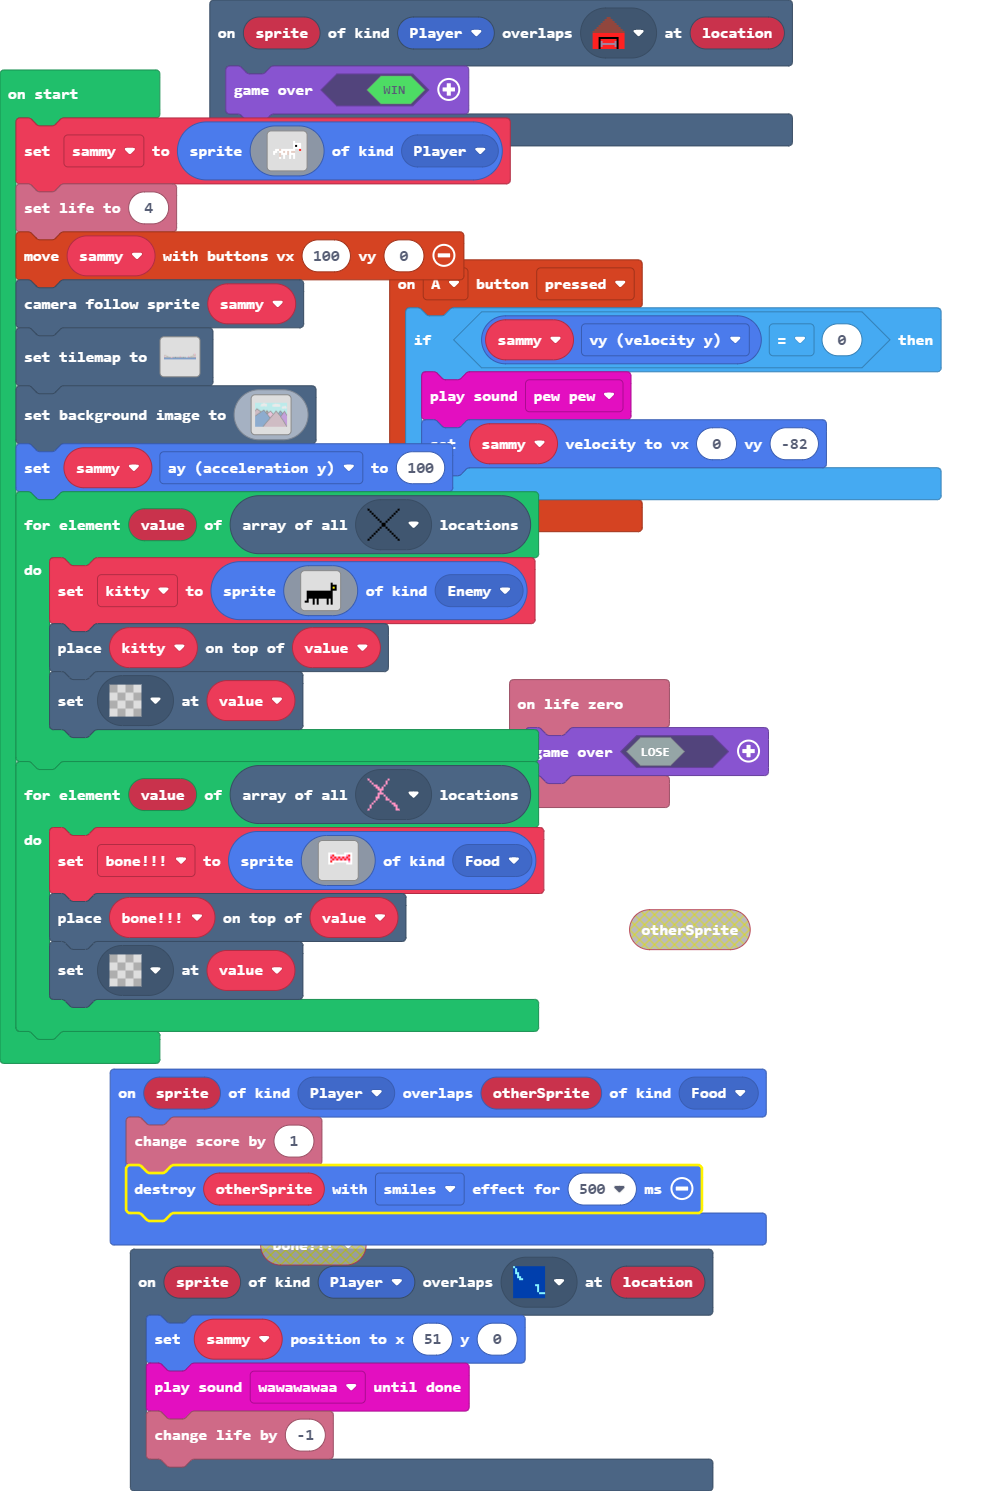
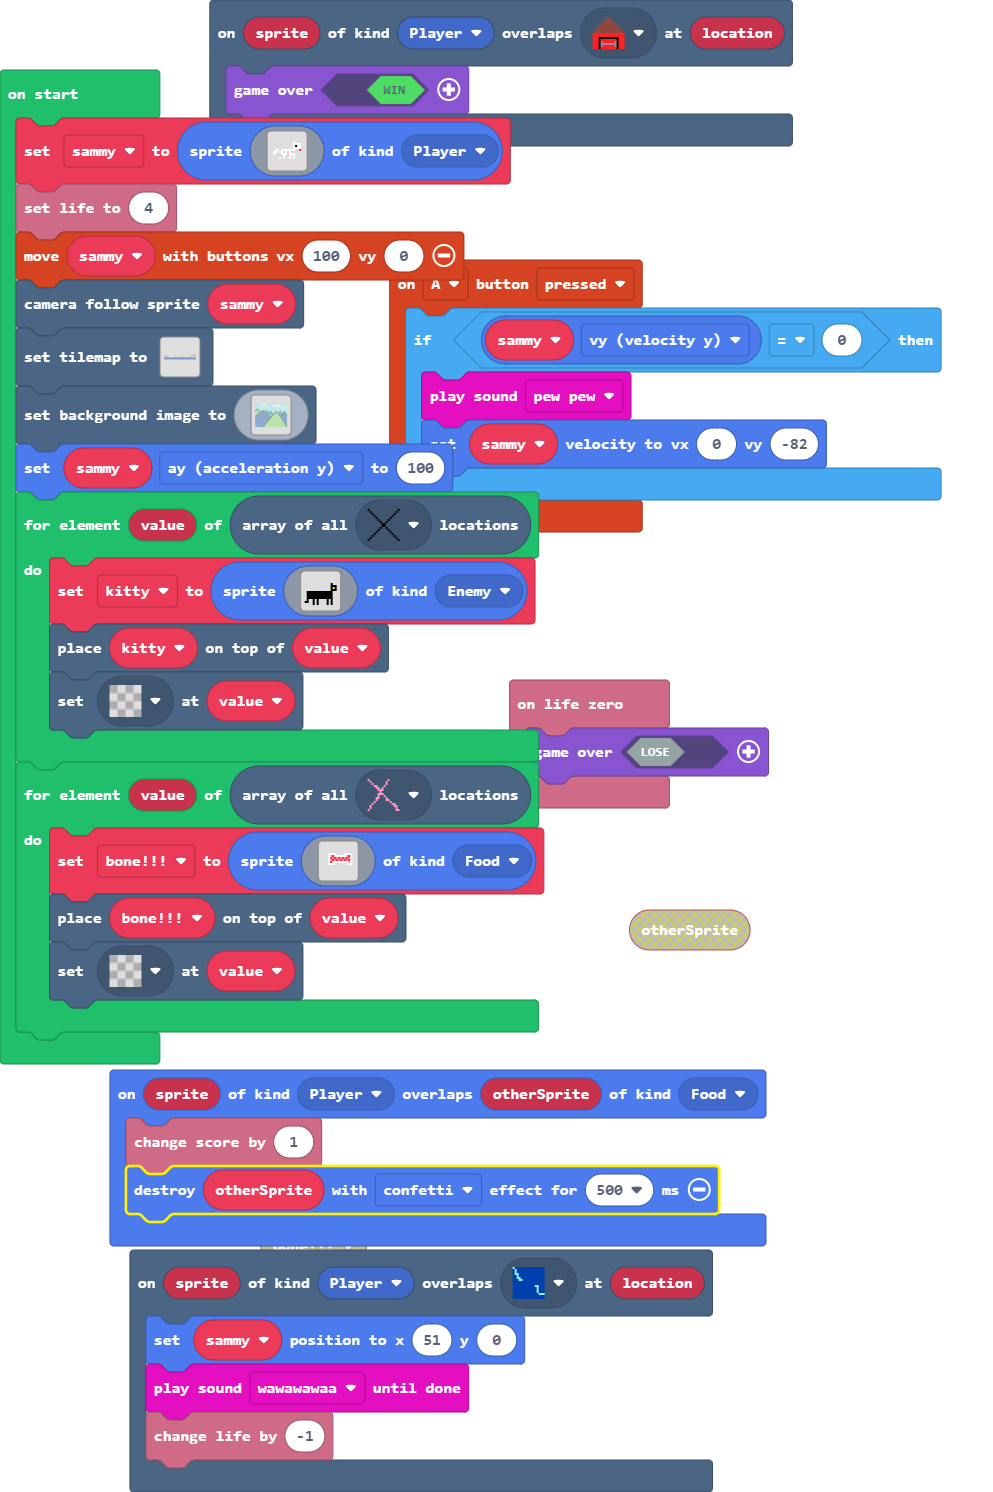
Update main.blocks, main.ts

diff --git a/main.ts b/main.ts
@@ -17,7 +17,7 @@ info.onLifeZero(function () {
 })
 sprites.onOverlap(SpriteKind.Player, SpriteKind.Food, function (sprite, otherSprite) {
     info.changeScoreBy(1)
-    otherSprite.destroy(effects.smiles, 500)
+    otherSprite.destroy(effects.confetti, 500)
 })
 let bone: Sprite = null
 let kitty: Sprite = null
@@ -43,7 +43,7 @@ sammy = sprites.create(img`
 info.setLife(4)
 controller.moveSprite(sammy, 100, 0)
 scene.cameraFollowSprite(sammy)
-tiles.setTilemap(tiles.createTilemap(hex`500010000000000000000000000000000000000000000000000000000000000000000000000000000000000000000000000000000000000000000000000000000000000000000000000000000000000000000000000000000000000000000000000000000000000000000000000000000000000000000000000000000000000000000000000000000000000000000000000000000000000000000000000000000000000000000000000000000000000000000000000000000000000000000000000000000000000000000000000000000000000000000000000000000000000000000000000000000000000000000005050500000000000000000000000000000000000000000000000000000000000000000000000000000000000000000000000000000000000000000000000000000000000000000000000000000000000505050000000000000000000000000000000000000000000000000000000000000000000000000000000000000000000000000000000000000000000000000000000000000000000000000000000004050505000301010101010100000000000000000000000000000000000000000000000000000000000000000000000000000000000000000000000000000000000000000000000000000000000000000101010101010000000000000000000000000000000000000000000000000000000000000000000000000000000000000000000000000000000000000000000000000000000000000000000000000000000000000000000000000000000000000000000000000000000000000000000000000000000000000000000000000000000000000000000000000000000000000000000000000000000000000001010101010000000005050500000001010101010000000000000000000000000000000000000000000000000000000005050500000000000000000000000000000000000005050500000000000000000000000000050505000505050000000000000000000000000000000000000000000000000000000000000000000000000505050000000000000000000000000000000000000505050000000101010101000000000005050500050505000000000000000000000000000000050505000000000000000400000000000000000000050505000000000000000400000000000000000000050505000000000000000000000000000505050001010101010101010101010101010101010005050501010101010101010101010101010101010101010101010101010101010101010101000000000101010101010101010101010101010101010101010202020202020202020202020202020201010101010102020202020202020202020202020202020202020202020202020202020202020202020202020202020202020202020202020202020202020202020202020202020202020202020202020202020202020202020202020202020202020202020202020202020202020202020202020202020202020202020202020202020202020202020202020202020202020202020202020202020202020202020202020202020202020202020202020202020202020202020202020202020202020202020202020202020202020202020202020202020202020202020202020202020202020202020202020202020202020202020202020202020202020202020202020202020202020202020202020202020202020202020202020202020202020202020202020202020202020202`, img`
+tiles.setTilemap(tiles.createTilemap(hex`500010000000000000000000000000000000000000000000000000000000000000000000000000000000000000000000000000000000000000000000000000000000000000000000000000000000000000000000000000000000000000000000000000000000000000000000000000000000000000000000000000000000000000000000000000000000000000000000000000000000000000000000000000000000000000000000000000000000000000000000000000000000000000000000000000000000000000000000000000000000000000000000000000000000000000000000000000000000000000000005050500000000000000000000000000000000000000000000000000000000000000000000000000000000000000000000000000000000000000000000000000000000000000000000000000000000000505050000000000000000000000000000000000000000000000000000000000000000000000000000000000000000000000000000000000000000000000000000000000000000000000000000000004050505000301010101010100000000000000000000000000000000000000000000000000000000000000000000000000000000000000000000000000000000000000000000000000000000000000000101010101010000000000000000000000000000000000000000000000000000000000000000000000000000000000000000000000000000000000000000000000000000000000000000000000000000000000000000000000000000000000000000000000000000000000000000000000000000000000000000000000000000000000000000000000000000000000000000000000000000000000000001010101010000000005050500000001010101010000000000000000000000000000000000000000000000000000000005050500000000000000000000000000000000000005050500000000000000000000000000050505000505050000000000000000000000000000000000000000000000000000000000000000000000000505050000000000000000000000000000000000000505050000000101010101000000000005050500050505000000000000000000000000000000050505000000000000000400000000000000000000050505000000000000000400000000000000000000050505000000000000000000000000000505050001010101010101010101010101010101010005050501010101010101040101010101010101010101010101010101010101010101010101000000000101010101010101010101010101010101010101010202020202020202020202020202020201010505050102020202020202020202020202020202020202020202020202020202020202020202020202020202020202020202020202020202020202020202020202020202020202020202020202020202020202020202020202020202020202020202020202020202020202020202020202020202020202020202020202020202020202020202020202020202020202020202020202020202020202020202020202020202020202020202020202020202020202020202020202020202020202020202020202020202020202020202020202020202020202020202020202020202020202020202020202020202020202020202020202020202020202020202020202020202020202020202020202020202020202020202020202020202020202020202020202020202020202020202`, img`
     ................................................................................
     ................................................................................
     ................................................................................
@@ -104,80 +104,80 @@ scene.setBackgroundImage(img`
[154 lines of base64/hex data omitted]
